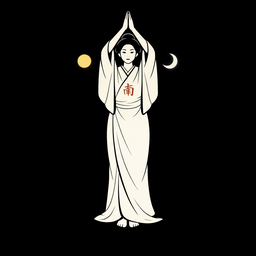
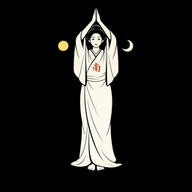
v6: SVG時計をポーズ画像30枚に置換
- pose_icons/pose_01〜30.png を生成（gpt-image-1.5、192x192、合計578KB）
  - 1〜15日: 南向き立ち姿、胸に「南」、右手太陽・左手月、両手0°→180°
  - 16〜30日: 北向き座位（背面）、背中に「北」、両手180°→360°（後ろで真下まで）
- マツリパネル: SVG時計（hand-row各2行）を削除、上部にポーズ画像を中央表示
- ヒル/ヨル各ブロックは時刻＋体位の表示のみ簡素化

diff --git a/tsukiyoga_v6.html b/tsukiyoga_v6.html
@@ -2595,7 +2595,7 @@
     font-size: 0.7rem;
   }
 
-  /* ===== ★v6: マツリパネル（v6改: 茶色枠と上部要素を削除） ===== */
+  /* ===== ★v6: マツリパネル（v6改: ポーズ画像中心） ===== */
   .matsuri-panel {
     background: transparent;
     border: none;
@@ -2603,6 +2603,18 @@
     padding: 4px 0 0;
     margin: 8px 0 10px;
     color: rgba(255,255,255,0.92);
+  }
+  .matsuri-pose-wrap {
+    text-align: center;
+    margin-bottom: 12px;
+  }
+  .matsuri-pose-img {
+    width: 180px;
+    height: 180px;
+    display: block;
+    margin: 0 auto;
+    object-fit: contain;
+    filter: drop-shadow(0 0 16px rgba(232, 184, 77, 0.12));
   }
 
   .matsuri-grid {
@@ -3013,35 +3025,30 @@
       <div class="phase-next-time" id="nextSeitenTime">—</div>
     </div>
 
-    <!-- ★v6: ヒルマツリ・ヨルマツリ パネル -->
+    <!-- ★v6改: ヒルマツリ・ヨルマツリ パネル（ポーズ画像中心） -->
     <div class="matsuri-panel" id="matsuriPanel">
+      <!-- 今日のポーズ画像 -->
+      <div class="matsuri-pose-wrap">
+        <img class="matsuri-pose-img" id="matsuriPoseImg" alt="今日のポーズ" src="">
+      </div>
+
       <div class="matsuri-grid">
         <div class="matsuri-block matsuri-hiru">
           <div class="matsuri-icon-row">
             <span class="matsuri-icon">☀</span>
             <span class="matsuri-label">ヒルマツリ</span>
-            <span class="matsuri-sub">昼祭り</span>
           </div>
           <div class="matsuri-time" id="matsuriHiruTime">--</div>
           <div class="matsuri-body">南向きに立つ</div>
-          <div class="matsuri-hands">
-            <div class="hand-row"><span class="hand-side">右手</span><span class="hand-target">太陽</span><span class="hand-clock" id="matsuriHiruRight">--</span></div>
-            <div class="hand-row"><span class="hand-side">左手</span><span class="hand-target">月</span><span class="hand-clock" id="matsuriHiruLeft">--</span></div>
-          </div>
         </div>
 
         <div class="matsuri-block matsuri-yoru">
           <div class="matsuri-icon-row">
             <span class="matsuri-icon">☾</span>
             <span class="matsuri-label">ヨルマツリ</span>
-            <span class="matsuri-sub">夜祀り</span>
           </div>
           <div class="matsuri-time" id="matsuriYoruTime">--</div>
           <div class="matsuri-body">北向きに座る</div>
-          <div class="matsuri-hands">
-            <div class="hand-row"><span class="hand-side">右手</span><span class="hand-target">月</span><span class="hand-clock" id="matsuriYoruRight">--</span></div>
-            <div class="hand-row"><span class="hand-side">左手</span><span class="hand-target">太陽</span><span class="hand-clock" id="matsuriYoruLeft">--</span></div>
-          </div>
         </div>
       </div>
 
@@ -3210,13 +3217,12 @@
     };
     setText('matsuriHiruTime', data.hiru.time);
     setText('matsuriYoruTime', data.yoru.time);
-    setHTML('matsuriHiruRight', svgClock(data.hiru.clockRightDeg, { color: '#e8b84d' }));
-    setHTML('matsuriHiruLeft',  svgClock(data.hiru.clockLeftDeg,  { color: '#e8b84d' }));
-    setHTML('matsuriYoruRight', svgClock(data.yoru.clockRightDeg, { color: '#9cb1ff' }));
-    setHTML('matsuriYoruLeft',  svgClock(data.yoru.clockLeftDeg,  { color: '#9cb1ff' }));
     setText('matsuriDetailName', data.name);
     setText('matsuriDetailKanji', data.kanji || '');
     setText('matsuriDetailNote', data.note || '');
+    // ★v6改: 時計の代わりに今日のポーズ画像を表示
+    const poseEl = document.getElementById('matsuriPoseImg');
+    if (poseEl) poseEl.src = `./pose_icons/pose_${String(day).padStart(2, '0')}.png`;
   }
 
   // ★v6: 詳細トグル（DOMContentLoaded で確実にバインド）
